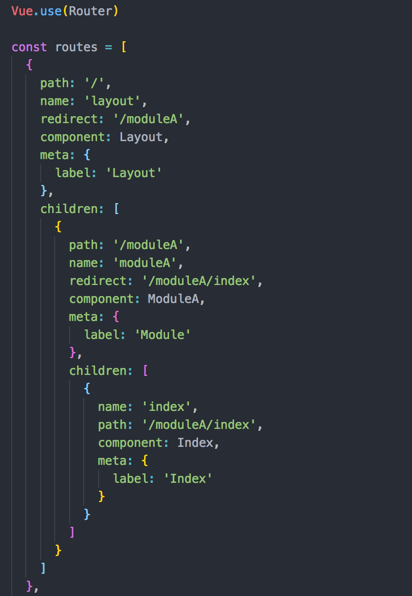
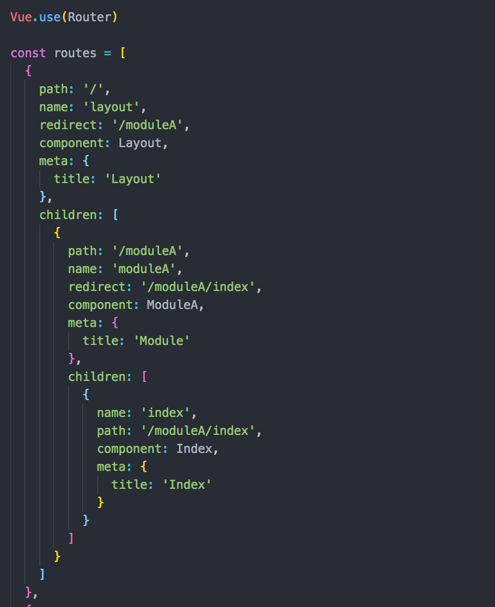
[IMP]replace label with title in router

diff --git a/src/sample/router.js b/src/sample/router.js
@@ -13,7 +13,7 @@ const routes = [
     redirect: '/moduleA',
     component: Layout,
     meta: {
-      label: 'Layout'
+      title: 'Layout'
     },
     children: [
       {
@@ -22,7 +22,7 @@ const routes = [
         redirect: '/moduleA/index',
         component: ModuleA,
         meta: {
-          label: 'Module'
+          title: 'Module'
         },
         children: [
           {
@@ -30,7 +30,7 @@ const routes = [
             path: '/moduleA/index',
             component: Index,
             meta: {
-              label: 'Index'
+              title: 'Index'
             }
           }
         ]

diff --git a/src/packages/breadcrumb/breadcrumb.js b/src/packages/breadcrumb/breadcrumb.js
@@ -124,7 +124,7 @@ export default class Breadcrumb {
     if (options.paths && Array.isArray(options.paths)) {
       opts.paths = options.paths.map(i => {
         let tp = {};
-        tp.name = Breadcrumb._okv(i, i['meta'] && i['meta']['label'] ? 'meta.label' : 'name');
+        tp.name = Breadcrumb._okv(i, i['meta'] && i['meta']['title'] ? 'meta.title' : 'name');
         tp.to = Breadcrumb._okv(i, i.path ? 'path' : 'to');
         return tp;
       })

diff --git a/README.md b/README.md
@@ -10,7 +10,7 @@ npm i @litt1e-p/breadcrumb --save
 
 # Usage
 
-### just add a directive `v-breadcrumb` in the html element after adding router meta with `label` value or router's name by default
+### just add a directive `v-breadcrumb` in the html element after adding router meta with `title` value or router's name by default
 
 Example:
 
